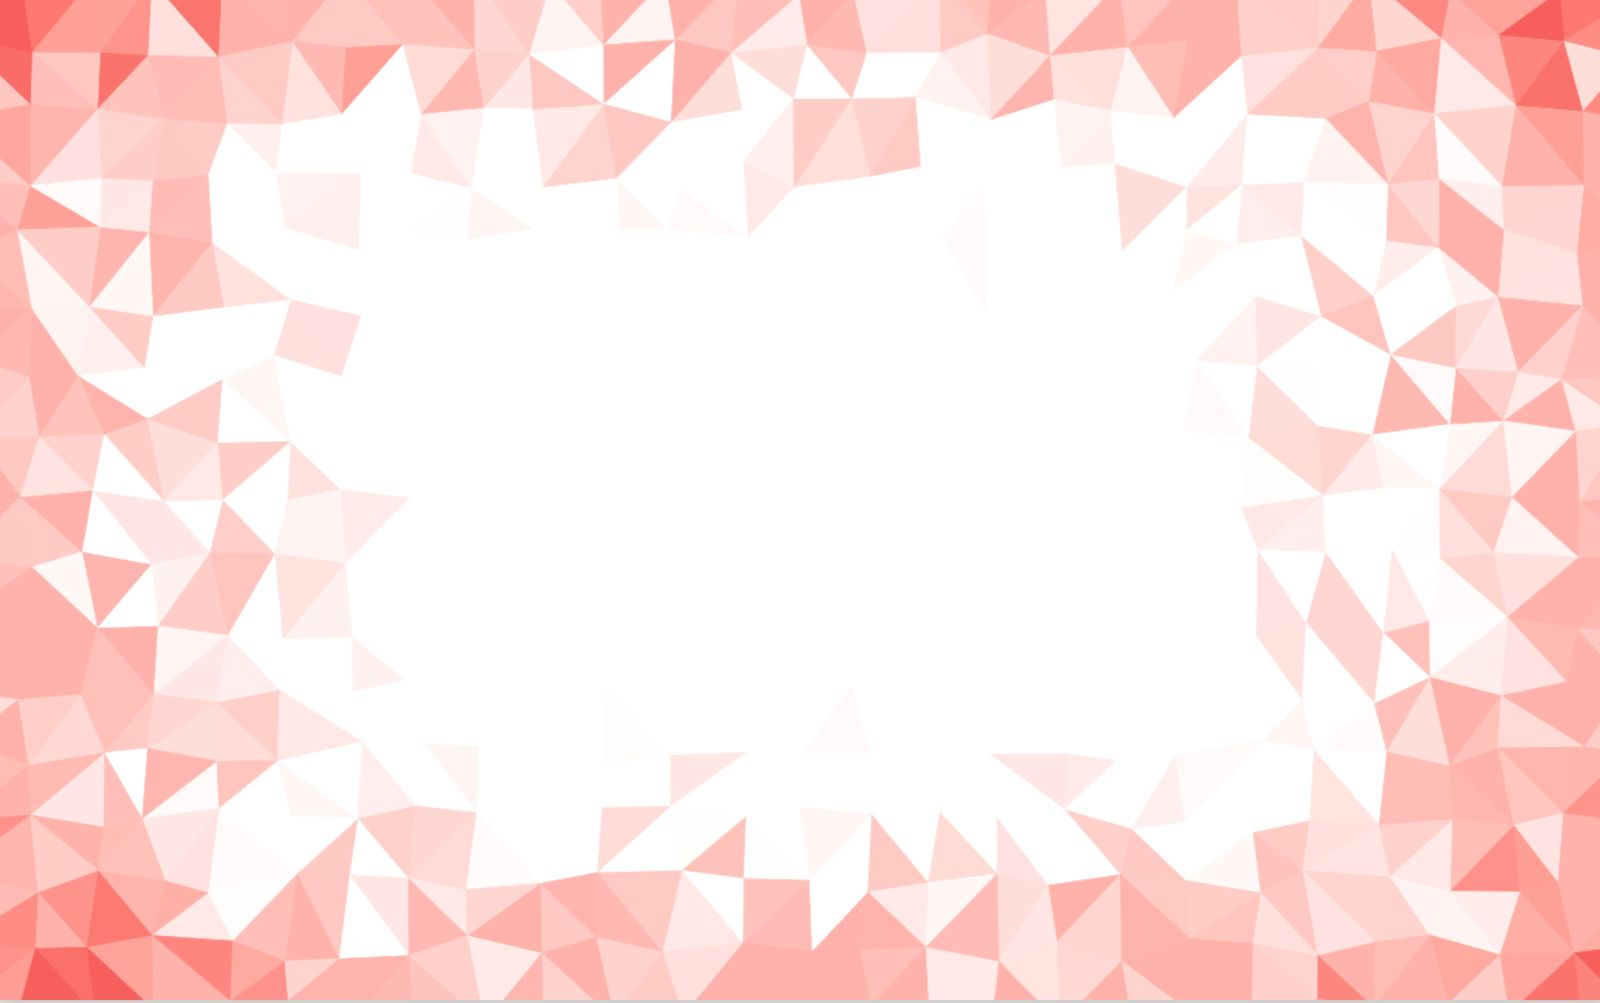
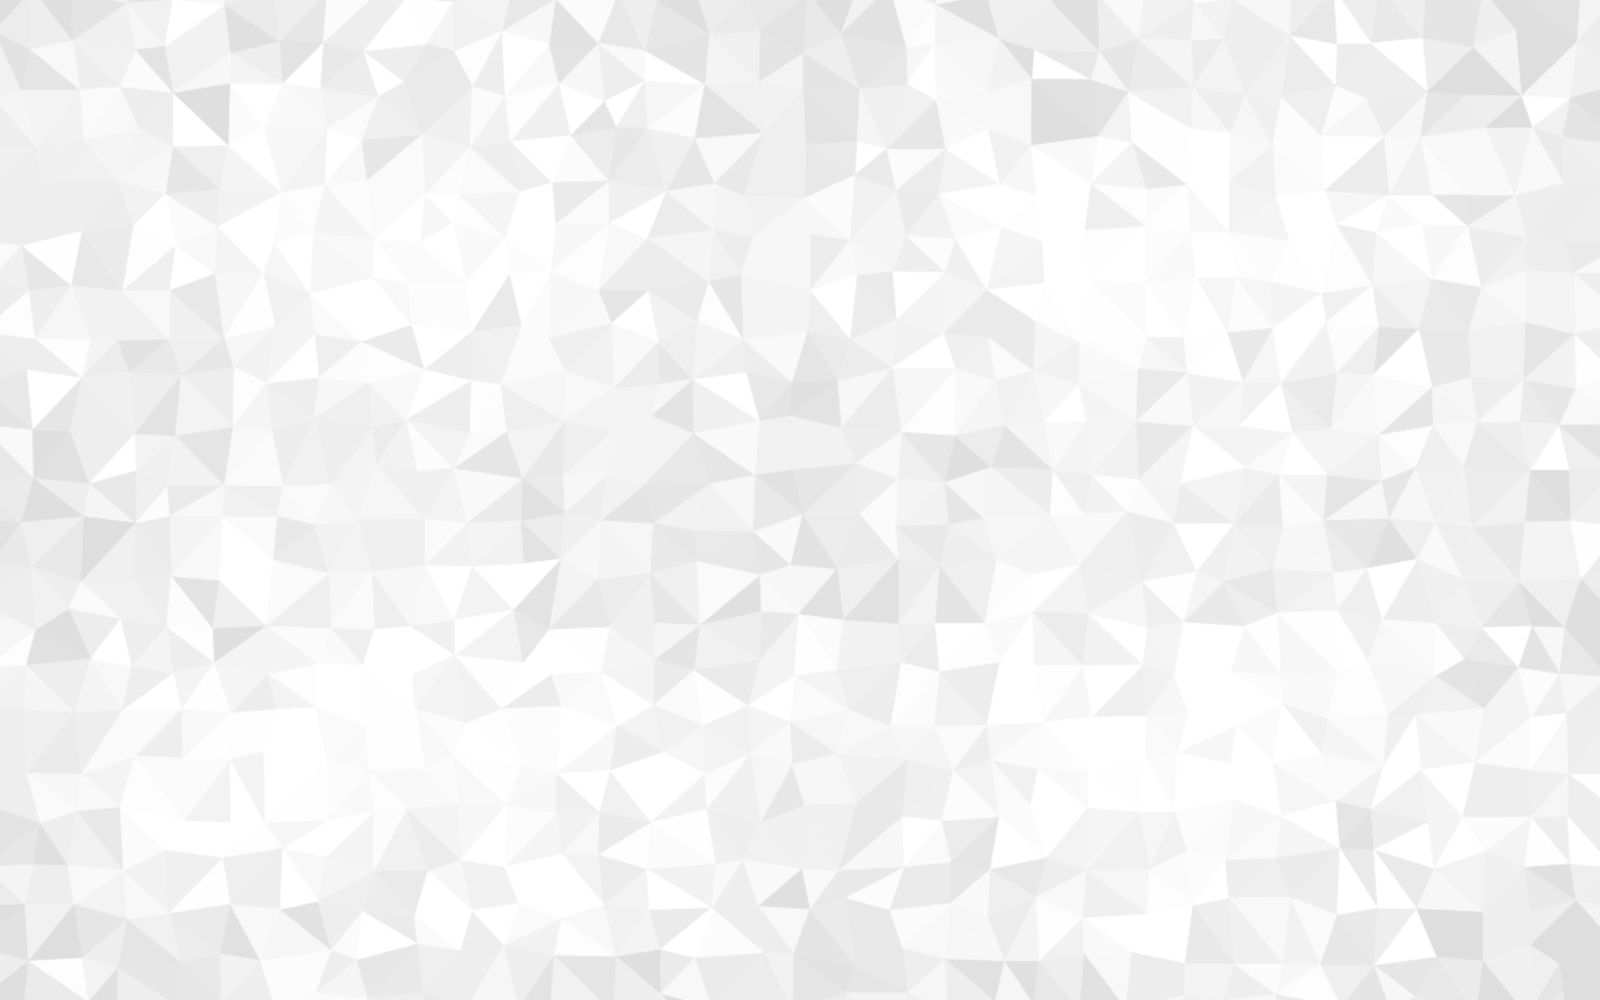
Edited the background added borders

diff --git a/judge/grading.php b/judge/grading.php
@@ -35,7 +35,7 @@
 <head>
     <meta charset="UTF-8">
     <meta name="viewport" content="width=device-width, initial-scale=1.0">
-    <title>Code Battle - Add Criteria</title>
+    <title>Code Battle - Grade</title>
 
     <style>
         body {
@@ -43,6 +43,9 @@
             min-height: 100vh;
             margin: 0;
             background-color: #E3E3E3;
+            background-image: url(../Images/grids.jpeg);
+            background-repeat: no-repeat;
+            background-size: cover;
             color: black;
             font-family: Tahoma;
             font-size: 16px;
@@ -77,6 +80,7 @@
             min-width: 300px;
             margin: 1em auto;
             border-radius: 25px;
+            border: 1px solid;
             padding: 3rem;
         }
         
@@ -149,7 +153,7 @@
             color: #ffffff; 
             padding: 5px;
             text-align: center;
-            position: auto; 
+            position: fixed; 
             bottom: 0;
             width: 100%; 
         }

diff --git a/admin/Createhackathon/AddJudge.php b/admin/Createhackathon/AddJudge.php
@@ -27,6 +27,9 @@ if(isset($_SESSION['H_judges_added'])){
             min-height: 100vh;
             margin: 0;
             background-color: #E3E3E3;
+            background-image: url(../../Images/grids.jpeg);
+            background-repeat: no-repeat;
+            background-size: cover;
             color: black;
             font-family: Tahoma;
             font-size: 16px;
@@ -192,6 +195,8 @@ if(isset($_SESSION['H_judges_added'])){
             var heading;
 
             document.getElementById("text-field-container").style.backgroundColor = "#ffffff";
+            document.getElementById("text-field-container").style.border = "1px solid";
+            
 
             container.appendChild(document.createElement("br")); 
 

diff --git a/admin/Createhackathon/AddCriteria.php b/admin/Createhackathon/AddCriteria.php
@@ -31,6 +31,9 @@ if(isset($_SESSION['H_added_criteria'])){
             min-height: 100vh;
             margin: 0;
             background-color: #E3E3E3;
+            background-image: url(../../Images/grids.jpeg);
+            background-repeat: no-repeat;
+            background-size: cover;
             color: black;
             font-family: Tahoma;
             font-size: 16px;
@@ -56,6 +59,7 @@ if(isset($_SESSION['H_added_criteria'])){
             min-width: 300px;
             margin: 1rem auto;
             border-radius: 25px;
+            border: 1px solid;
             padding: 0 3rem 3rem 3rem ;
         }
         

diff --git a/admin/Createhackathon/HCreate.php b/admin/Createhackathon/HCreate.php
@@ -31,6 +31,9 @@ if(isset($_SESSION['H_created'])){
       height: 100vh;
       margin: 0;
       background-color: #E3E3E3;
+      background-image: url(../../Images/grids.jpeg);
+      background-repeat: no-repeat;
+      background-size: cover;
       color: black;
       font-family: Tahoma;
       font-size: 16px;
@@ -58,6 +61,7 @@ if(isset($_SESSION['H_created'])){
       margin: 1rem auto;
       background-color: white;	
       border-radius: 25px;
+      border: 1px solid;
       padding: 0 3rem 3rem 3rem ;
     }
     

diff --git a/judge/Result.php b/judge/Result.php
@@ -46,6 +46,9 @@ $s7->bindParam(":H_id",$_SESSION['H_id']);
             min-height: 100vh;
             font-family: 'Arial', sans-serif;
             background-color: #E3E3E3;
+            background-image: url(../Images/grids.jpeg);
+            background-repeat: no-repeat;
+            background-size: cover;
             color: #F73634;
             margin: 0;
             padding: 0;

diff --git a/judge/Team.php b/judge/Team.php
@@ -38,6 +38,9 @@ $result3=$stmt3->fetchAll(PDO::FETCH_ASSOC);
         body {
             font-family: 'Arial', sans-serif;
             background-color: #E3E3E3;
+            background-image: url(../Images/grids.jpeg);
+            background-repeat: no-repeat;
+            background-size: cover;
             color: black;
             min-height: 100vh;
             margin: 0;

diff --git a/judge/updatescores.php b/judge/updatescores.php
@@ -27,6 +27,9 @@ $_SESSION['update']=1;
         body {
             font-family: 'Arial', sans-serif;
             background-color: #E3E3E3;
+            background-image: url(../Images/grids.jpeg);
+            background-repeat: no-repeat;
+            background-size: cover;
             color: black;
             min-height: 100vh;
             margin: 0;

diff --git a/judge/otherjudges.php b/judge/otherjudges.php
@@ -73,6 +73,9 @@ $team_sum=0;
             height: 100vh;
             margin: 0;
             background-color: #E3E3E3;
+            background-image: url(../Images/grids.jpeg);
+            background-repeat: no-repeat;
+            background-size: cover;
             color: black;
             font-family: Tahoma;
             font-size: 16px;
